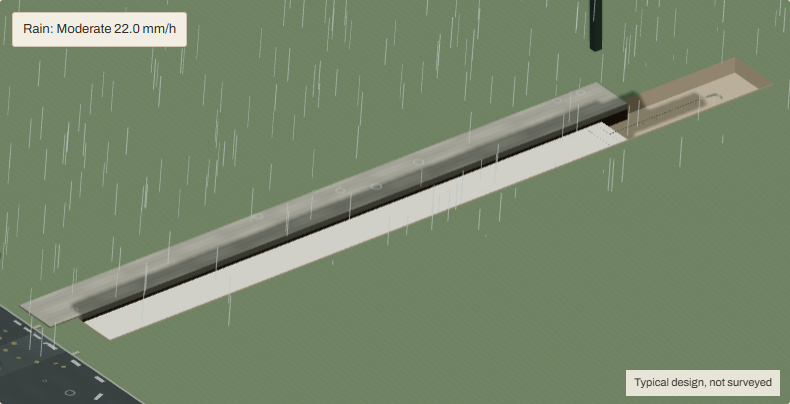
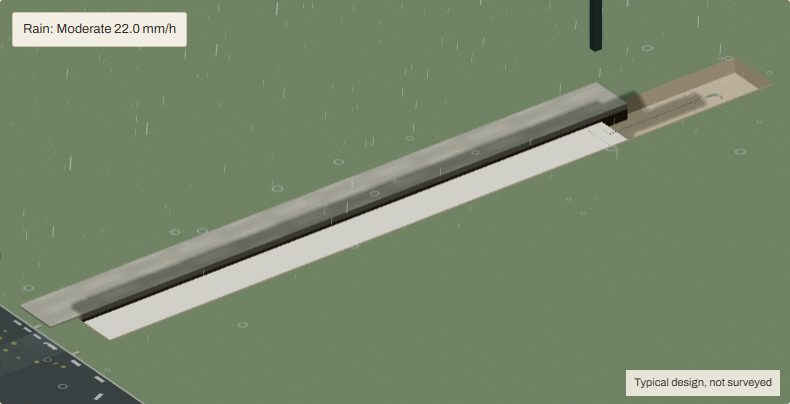
Drive visible rainfall with drop sizes, fall speeds and surface impacts

diff --git a/app/src/three/WaterEffects.tsx b/app/src/three/WaterEffects.tsx
@@ -4,6 +4,7 @@ import * as THREE from 'three';
 import { drainDesign, terrainHeight, type DrainDesign } from '../simulation/physics/design';
 import type { ModelPhysics } from './PhysicsOverlay';
 import { rainBounds, rainColour } from './visibility';
+import { dropDiameter, terminalSpeed, rainPhase, mistStrength } from './rainPhysics';
 
 export function useReducedMotion() {
   const [reduced, setReduced] = useState(
@@ -30,140 +31,95 @@ export const rainCount = (rain: number, low = false, record = false) =>
       );
 export const seepageCount = (q: number, low = false) =>
   q > 0 ? Math.min(low ? 12 : 40, Math.ceil(q * 60000 * 2)) : 0;
-export function StormRain({
-  physics,
-  low = false,
-  record = false,
-}: {
-  physics: ModelPhysics;
-  low?: boolean;
-  record?: boolean;
-  plane?: THREE.Plane;
-}) {
-  const d = drainDesign(physics.config),
-    frame = physics.frame;
-  const count = rainCount(frame?.rain ?? 0, low, record),
-    reduced = useReducedMotion();
-  const drops = useRef<THREE.InstancedMesh>(null),
-    impacts = useRef<THREE.InstancedMesh>(null);
-  const time = useRef(0),
-    object = useMemo(() => new THREE.Object3D(), []);
-  const invalidate = useThree((s) => s.invalidate);
-  const bounds = rainBounds(d);
-  const impactPoints = useMemo(
-    () =>
-      Array.from({ length: count }, (_, i) => {
-        const x = (random(i + 1) - 0.5) * bounds.length,
-          z = (random(i + 999) - 0.5) * bounds.width;
-        const onBed = Math.abs(x) <= d.length / 2 && Math.abs(z) <= d.topWidth / 2;
-        let y = onBed
-          ? Math.max(terrainHeight(d, z), frame?.ponding ?? 0)
-          : d.bottomY - d.nativeDepth;
-        const c = d.catchment,
-          roadX = -d.length / 2 - c.roadWidth / 2 - 0.7;
-        if (
-          Math.abs(x - roadX) <= c.roadWidth / 2 &&
-          Math.abs(z) <= Math.max(40, d.topWidth + 8) / 2
-        )
-          y = c.kerbHeight;
-        const footZ = -d.topWidth / 2 - c.footpathWidth / 2;
-        if (Math.abs(x) < (d.length + 1) / 2 && Math.abs(z - footZ) < c.footpathWidth / 2)
-          y = c.kerbHeight;
-        if (
-          c.roofArea > 0 &&
-          Math.abs(x) < d.length * 0.375 &&
-          Math.abs(z - (footZ - c.footpathWidth / 2 - c.roofEdgeDepth / 2 - 0.25)) <
-            c.roofEdgeDepth / 2
-        )
-          y = c.kerbHeight + 4.99;
-        return { x, z, y };
-      }),
-    [
-      count,
-      bounds.length,
-      bounds.width,
-      d.length,
-      d.topWidth,
-      d.bottomY,
-      d.nativeDepth,
-      frame?.ponding,
-    ],
-  );
-  useFrame((_, delta) => {
-    if (!drops.current || !impacts.current || !count) return;
-    if (!reduced) time.current += Math.min(delta, 0.1);
-    for (let i = 0; i < count; i++) {
-      const { x, z, y: impactY } = impactPoints[i];
-      const speed = 5.5 + random(i + 42) * 2;
-      const phase = ((time.current * speed) / bounds.height + random(i + 222)) % 1;
-      const altitude = impactY + (1 - phase) * bounds.height;
-      object.position.set(x - (altitude - impactY) * 0.08, altitude, z);
-      object.rotation.set(0, 0, -0.08);
-      const distanceFade = 0.5 + 0.5 * (z / bounds.width + 0.5);
-      object.scale.set(
-        0.01 * distanceFade,
-        Math.min(
-          0.25 + Math.min(0.35, (frame?.rain ?? 0) * 3.6e6 * 0.004) + random(i + 8) * 0.14,
-          Math.max(0.001, altitude - impactY),
-        ),
-        0.01 * distanceFade,
-      );
-      object.updateMatrix();
-      drops.current.setMatrixAt(i, object.matrix);
-      const age = (phase + 0.15) % 1;
-      object.position.set(x, impactY + 0.001, z);
-      object.rotation.set(-Math.PI / 2, 0, 0);
-      object.scale.setScalar(age < 0.18 ? 0.015 + age * 0.35 : 0);
-      object.updateMatrix();
-      impacts.current.setMatrixAt(i, object.matrix);
+export function StormRain({physics,low=false,record=false}:{physics:ModelPhysics;low?:boolean;record?:boolean}) {
+  const d=drainDesign(physics.config), frame=physics.frame, rain=frame?.rain??0;
+  const count=rainCount(rain,low,record), reduced=useReducedMotion();
+  const drops=useRef<THREE.InstancedMesh>(null), impacts=useRef<THREE.InstancedMesh>(null), mist=useRef<THREE.InstancedMesh>(null), splashes=useRef<THREE.InstancedMesh>(null);
+  const time=useRef(0), object=useMemo(()=>new THREE.Object3D(),[]), {scene,invalidate}=useThree();
+  const bounds=rainBounds(d), strength=mistStrength(rain);
+  // Stable x/z samples retain their collision height as density changes. Real meshes are ray-cast once.
+  const samples=useMemo(()=>Array.from({length:4096},(_,i)=>({x:(random(i+1)-.5)*bounds.length,z:(random(i+999)-.5)*bounds.width,y:NaN,previous:1})),[bounds.length,bounds.width,physics.config]);
+  const collision=useMemo(()=>({ray:new THREE.Raycaster(), meshes:[] as THREE.Object3D[],ready:false}),[samples]);
+  useFrame((_,delta)=>{
+    if(!drops.current||!impacts.current||!count||document.hidden)return;
+    const started=performance.now();
+    if(!reduced)time.current+=Math.min(delta,.1);
+    if(!collision.ready) {
+      scene.updateMatrixWorld(true);
+      scene.traverse(o=>{
+        const mesh=o as THREE.Mesh;
+        if(!mesh.isMesh||o.userData.sectionPass)return;
+        let part=false, context=false, parent:THREE.Object3D|null=o;
+        while(parent){part ||= !!parent.userData.physicalPart;context ||= parent.name==='catchment-context';parent=parent.parent;}
+        const materials=Array.isArray(mesh.material)?mesh.material:[mesh.material];
+        if((part||context)&&materials.every(m=>!m.transparent))collision.meshes.push(o);
+      });
+      collision.ready=true;
     }
-    drops.current.instanceMatrix.needsUpdate = true;
-    impacts.current.instanceMatrix.needsUpdate = true;
-    if (!reduced) invalidate();
+    let casts=0;
+    for(let i=0;i<count;i++) {
+      const p=samples[i], {x,z}=p;
+      if(Number.isNaN(p.y)&&casts++<128){
+        collision.ray.set(new THREE.Vector3(x,30,z),new THREE.Vector3(0,-1,0));
+        p.y=collision.ray.intersectObjects(collision.meshes,false)[0]?.point.y??d.catchment.kerbHeight;
+      }
+      if(Number.isNaN(p.y)){object.scale.setScalar(0);object.updateMatrix();drops.current.setMatrixAt(i,object.matrix);impacts.current.setMatrixAt(i,object.matrix);continue;}
+      const onBed=Math.abs(x)<=d.length/2&&Math.abs(z)<=d.topWidth/2;
+      const fallback=onBed?terrainHeight(d,z):d.catchment.kerbHeight;
+      const solidY=Number.isFinite(p.y)?p.y:fallback;
+      const impactY=onBed?Math.max(solidY,frame?.ponding??0):solidY;
+      const diameter=dropDiameter(rain*3.6e6,random(i+42)), speed=terminalSpeed(diameter);
+      const phase=rainPhase(time.current,diameter,bounds.height,random(i+222));
+      const altitude=impactY+(1-phase)*bounds.height, length=Math.min(speed/45,Math.max(.001,altitude-impactY));
+      object.position.set(x-(altitude-impactY)*.08,altitude+length/2,z);
+      object.rotation.set(0,0,-.08);
+      // Width is magnified for screen visibility; physical diameter still determines fall speed.
+      object.scale.set(diameter*.004,length,diameter*.004);object.updateMatrix();drops.current.setMatrixAt(i,object.matrix);
+      const sinceImpact=phase*bounds.height/speed, age=sinceImpact/.18;
+      object.position.set(x,impactY+.003,z);object.rotation.set(-Math.PI/2,0,0);
+      object.scale.setScalar(age<1?.008+age*.07:0);object.updateMatrix();impacts.current.setMatrixAt(i,object.matrix);
+      if(phase<p.previous&&!reduced){
+        const impulses=(scene.userData.rainImpulses??=[]) as {x:number;z:number;strength:number}[];
+        if(impulses.length<128)impulses.push({x,z,strength:diameter*.00008});
+      }
+      p.previous=phase;
+      if(splashes.current){
+        object.position.set(x+sinceImpact*.2,impactY+Math.max(0,.65*sinceImpact-4.905*sinceImpact*sinceImpact),z+sinceImpact*.1);
+        object.rotation.set(0,0,0);object.scale.setScalar(age<.7&&impactY<=solidY+.004?.004*diameter:0);object.updateMatrix();splashes.current.setMatrixAt(i,object.matrix);
+      }
+    }
+    drops.current.instanceMatrix.needsUpdate=true;impacts.current.instanceMatrix.needsUpdate=true;if(splashes.current)splashes.current.instanceMatrix.needsUpdate=true;
+    if(mist.current) {
+      for(let i=0;i<24;i++){
+        object.position.set((random(i+800)-.5)*bounds.length,.3+(i%3)*.16,(random(i+300)-.5)*bounds.width);
+        object.rotation.set(-Math.PI/2,0,time.current*.025);object.scale.set(1.2,.7,1);object.updateMatrix();mist.current.setMatrixAt(i,object.matrix);
+      }
+      mist.current.instanceMatrix.needsUpdate=true;
+    }
+    scene.userData.rainMs=performance.now()-started;
+    if(!reduced)invalidate();
   });
-  if (!count) return null;
-  return (
-    <group name="storm-rain" userData={{ bounds, colour: rainColour }}>
-      <instancedMesh
-        name="rain-streaks"
-        ref={drops}
-        args={[undefined, undefined, count]}
-        frustumCulled={false}
-      >
-        <boxGeometry args={[1, 1, 1]} />
-        <meshBasicMaterial
-          color="#adbdbb"
-          transparent
-          opacity={Math.min(0.9, 0.5 + ((frame?.rain ?? 0) * 3.6e6) / 160)}
-          onBeforeCompile={(shader) => {
-            shader.vertexShader =
-              'varying float rainFade;\n' +
-              shader.vertexShader.replace(
-                '#include <project_vertex>',
-                '#include <project_vertex>\nrainFade = clamp(1.3 - abs(mvPosition.z) / 55.0, 0.3, 1.0);',
-              );
-            shader.fragmentShader =
-              'varying float rainFade;\n' +
-              shader.fragmentShader.replace(
-                '#include <color_fragment>',
-                '#include <color_fragment>\ndiffuseColor.a *= rainFade;',
-              );
-          }}
-          depthWrite={false}
-        />
-      </instancedMesh>
-      <instancedMesh ref={impacts} args={[undefined, undefined, count]} frustumCulled={false}>
-        <ringGeometry args={[0.7, 1, low ? 8 : 16]} />
-        <meshBasicMaterial
-          color="#b6c9c7"
-          side={THREE.DoubleSide}
-          transparent
-          opacity={0.45}
-          depthWrite={false}
-        />
-      </instancedMesh>
-    </group>
-  );
+  if(!count)return null;
+  return <group name="storm-rain" userData={{bounds,colour:rainColour,dropDistribution:'conditional Marshall-Palmer',realTime:true}}>
+    <instancedMesh name="rain-streaks" ref={drops} args={[undefined,undefined,count]} frustumCulled={false}>
+      <boxGeometry/>
+      <meshBasicMaterial color="#adbdbb" transparent opacity={Math.min(.9,.5+rain*3.6e6/160)} depthWrite={false}
+        onBeforeCompile={shader=>{
+          shader.vertexShader='varying float rainFade;\n'+shader.vertexShader.replace('#include <project_vertex>','#include <project_vertex>\nrainFade=clamp(1.3-abs(mvPosition.z)/55.0,0.3,1.0);');
+          shader.fragmentShader='varying float rainFade;\n'+shader.fragmentShader.replace('#include <color_fragment>','#include <color_fragment>\ndiffuseColor.a*=rainFade;');
+        }}/>
+    </instancedMesh>
+    <instancedMesh name="rain-impacts" ref={impacts} args={[undefined,undefined,count]} frustumCulled={false}>
+      <ringGeometry args={[.7,1,low?8:16]}/><meshBasicMaterial color="#b6c9c7" side={THREE.DoubleSide} transparent opacity={.45} depthWrite={false}/>
+    </instancedMesh>
+    {!low&&<instancedMesh name="rain-splash-particles" ref={splashes} args={[undefined,undefined,count]} frustumCulled={false}>
+      <tetrahedronGeometry/><meshBasicMaterial color="#ccd9d4" transparent opacity={.6} depthWrite={false}/>
+    </instancedMesh>}
+    {strength>0&&!low&&<instancedMesh name="rain-mist" ref={mist} args={[undefined,undefined,24]} frustumCulled={false}>
+      <planeGeometry/><meshBasicMaterial color="#c8d3ce" transparent opacity={strength} depthWrite={false} side={THREE.DoubleSide}
+        onBeforeCompile={shader=>{shader.fragmentShader=shader.fragmentShader.replace('#include <color_fragment>','#include <color_fragment>\ndiffuseColor.a*=exp(-12.0*dot(vUv-0.5,vUv-0.5));');shader.defines={...shader.defines,USE_UV:''};}}/>
+    </instancedMesh>}
+  </group>;
 }
 
 export function WaterMaterial({

diff --git a/app/src/three/DrainScene.tsx b/app/src/three/DrainScene.tsx
@@ -29,7 +29,7 @@ import { createCompostParts } from './compostGeometry';
 import { sensorMarkers } from '../api/sensorViews';
 import SectionCaps from './SectionCaps';
 import { moistureTexture, wetMaterial } from './soilMaterial';
-import { rainCount, useReducedMotion } from './WaterEffects';
+import { StormRain, rainCount, useReducedMotion } from './WaterEffects';
 import { drainDesign } from '../simulation/physics/design';
 import CatchmentContext from './CatchmentContext';
 import SceneLabels, { type SceneLabel } from './SceneLabels';
@@ -459,6 +459,7 @@ function Model(props: Props) {
       {props.physics && props.dimensionsVisible && props.assembly !== 'exploded' && (
         <DimensionLines config={props.physics.config} />
       )}
+      {props.physics && <StormRain physics={props.physics} low={props.lowQuality} record={props.recordQuality} />}
       <group name="drain-parts">
         {props.parts.map((part, partIndex) => {
           const id = part.partId,
@@ -516,7 +517,6 @@ function Model(props: Props) {
                     physics={props.physics}
                     plane={props.assembly === 'section' ? plane : undefined}
                     low={props.lowQuality}
-                    record={props.recordQuality}
                   />
                 </>
               )}

diff --git a/app/src/three/rainPhysics.test.ts b/app/src/three/rainPhysics.test.ts
@@ -1,0 +1,24 @@
+import {describe,it,expect} from 'vitest';
+import {dropDiameter,rainLambda,terminalSpeed,rainPhase,mistStrength} from './rainPhysics';
+describe('representative rain drops',()=>{
+  it('matches the conditional exponential CDF at light and heavy rates',()=>{
+    for(const rate of [2,10,63,120]) {
+      const n=10000, values=Array.from({length:n},(_,i)=>dropDiameter(rate,(i+.5)/n)), lambda=rainLambda(rate);
+      for(const d of [.7,1,2,3,5]) {
+        const empirical=values.filter(v=>v<=d).length/n;
+        const expected=(1-Math.exp(-lambda*(d-.6)))/(1-Math.exp(-lambda*5.2));
+        expect(Math.abs(empirical-expected)).toBeLessThan(.001);
+      }
+    }
+  });
+  it('uses Atlas speed and real seconds, with zero dry mist',()=>{
+    expect(terminalSpeed(1)).toBeCloseTo(3.997,2);
+    for(const playback of [30,60,300,600]) {
+      // Playback changes engine intensity, never the wall-clock fall interval.
+      expect(rainPhase(1,1,8,.2)).toBeCloseTo((terminalSpeed(1)/8+.2)%1,10);
+      expect(playback).toBeGreaterThan(0);
+    }
+    expect(mistStrength(0)).toBe(0);
+    expect(mistStrength(63/3.6e6)).toBeGreaterThan(0);
+  });
+});

diff --git a/app/src/three/PhysicsOverlay.tsx b/app/src/three/PhysicsOverlay.tsx
@@ -17,7 +17,7 @@ import type { PhysicsConfig } from '../simulation/physics/config';
 import type { PhysicsFrame } from '../simulation/physics/engine';
 import { drainDesign } from '../simulation/physics/design';
 import { channelPrism } from './physicsGeometry';
-import { StormRain, WaterMaterial, Seepage } from './WaterEffects';
+import { WaterMaterial, Seepage } from './WaterEffects';
 import SectionCaps from './SectionCaps';
 import { flowSpeed } from './visibility';
 import FlowTrace from './FlowTrace';
@@ -59,13 +59,11 @@ export function PhysicsWater({
   physics,
   plane,
   low = false,
-  record = false,
 }: {
   id: PartId;
   physics: ModelPhysics;
   plane?: Plane;
   low?: boolean;
-  record?: boolean;
 }) {
   const d = drainDesign(physics.config),
     v = physics.config.values,
@@ -144,7 +142,6 @@ export function PhysicsWater({
   if (id === 'ponding')
     return (
       <group>
-        <StormRain physics={physics} low={low} record={record} plane={plane} />
         {h > 0.000001 && (
           <mesh name="ponded-water" geometry={geometry}>
             {water(h)}

diff --git a/app/src/three/rainPhysics.ts b/app/src/three/rainPhysics.ts
@@ -1,0 +1,10 @@
+/** Visible representative drops: Marshall–Palmer conditioned to Atlas' 0.6–5.8 mm range. */
+export const rainLambda = (mmHr: number) => 4.1 * Math.max(0.001, mmHr) ** -0.21;
+export function dropDiameter(mmHr: number, u: number) {
+  const lambda = rainLambda(mmHr), lo = .6, hi = 5.8;
+  return lo - Math.log(1 - Math.min(1 - 1e-12, Math.max(0, u)) * (1 - Math.exp(-lambda * (hi - lo)))) / lambda;
+}
+export const terminalSpeed = (diameterMm: number) => 9.65 - 10.3 * Math.exp(-.6 * diameterMm);
+export const rainPhase = (seconds: number, diameterMm: number, height: number, seed: number) =>
+  (seconds * terminalSpeed(diameterMm) / height + seed) % 1;
+export const mistStrength = (rain: number) => Math.max(0, Math.min(.12, (rain * 3.6e6 - 40) / 500));
